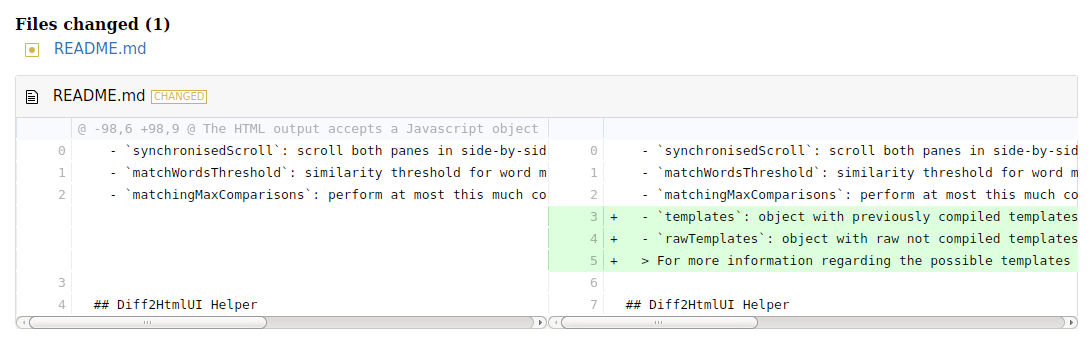
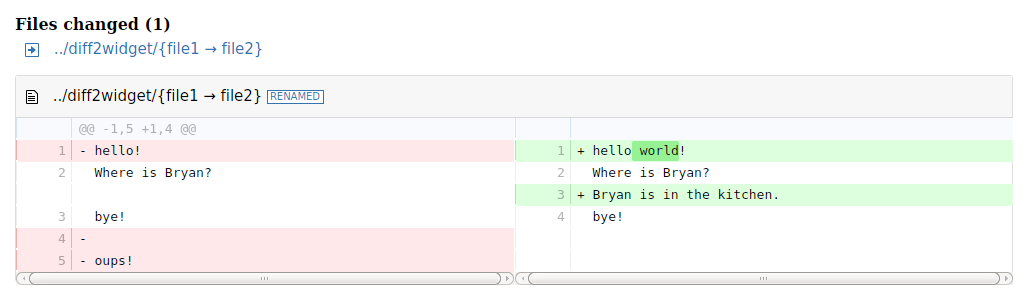
change the exemple with a better one ;)

diff --git a/README.md b/README.md
@@ -17,7 +17,7 @@ Install the dependencies:
 ### exemple
 
 ```sh
-> diff <- "diff --git a/README.md b/README.md\r\nindex 132c8a2..46909f2 100644\r\n--- a/README.md\r\n+++ b/README.md\r\n@ -98,6 +98,9 @ The HTML output accepts a Javascript object with configuration. Possible options\r\n   - `synchronisedScroll`: scroll both panes in side-by-side mode: `true` or `false`, default is `false`\r\n   - `matchWordsThreshold`: similarity threshold for word matching, default is 0.25\r\n   - `matchingMaxComparisons`: perform at most this much comparisons for line matching a block of changes, default is `2500`\r\n+  - `templates`: object with previously compiled templates to replace parts of the html\r\n+  - `rawTemplates`: object with raw not compiled templates to replace parts of the html\r\n+  > For more information regarding the possible templates look into [src/templates](https://github.com/rtfpessoa/diff2html/tree/master/src/templates)\r\n \r\n ## Diff2HtmlUI Helper"
+> diff <- "diff --git a/../diff2widget/file1 b/../diff2widget/file2\nindex ab63d51..eb01961 100644\n--- a/../diff2widget/file1\n+++ b/../diff2widget/file2\n@@ -1,5 +1,4 @@\n-hello!\n+hello world!\n Where is Bryan?\n+Bryan is in the kitchen.\n bye!\n-\n-oups!"
 
 > diffRgit(diff)
 ```
